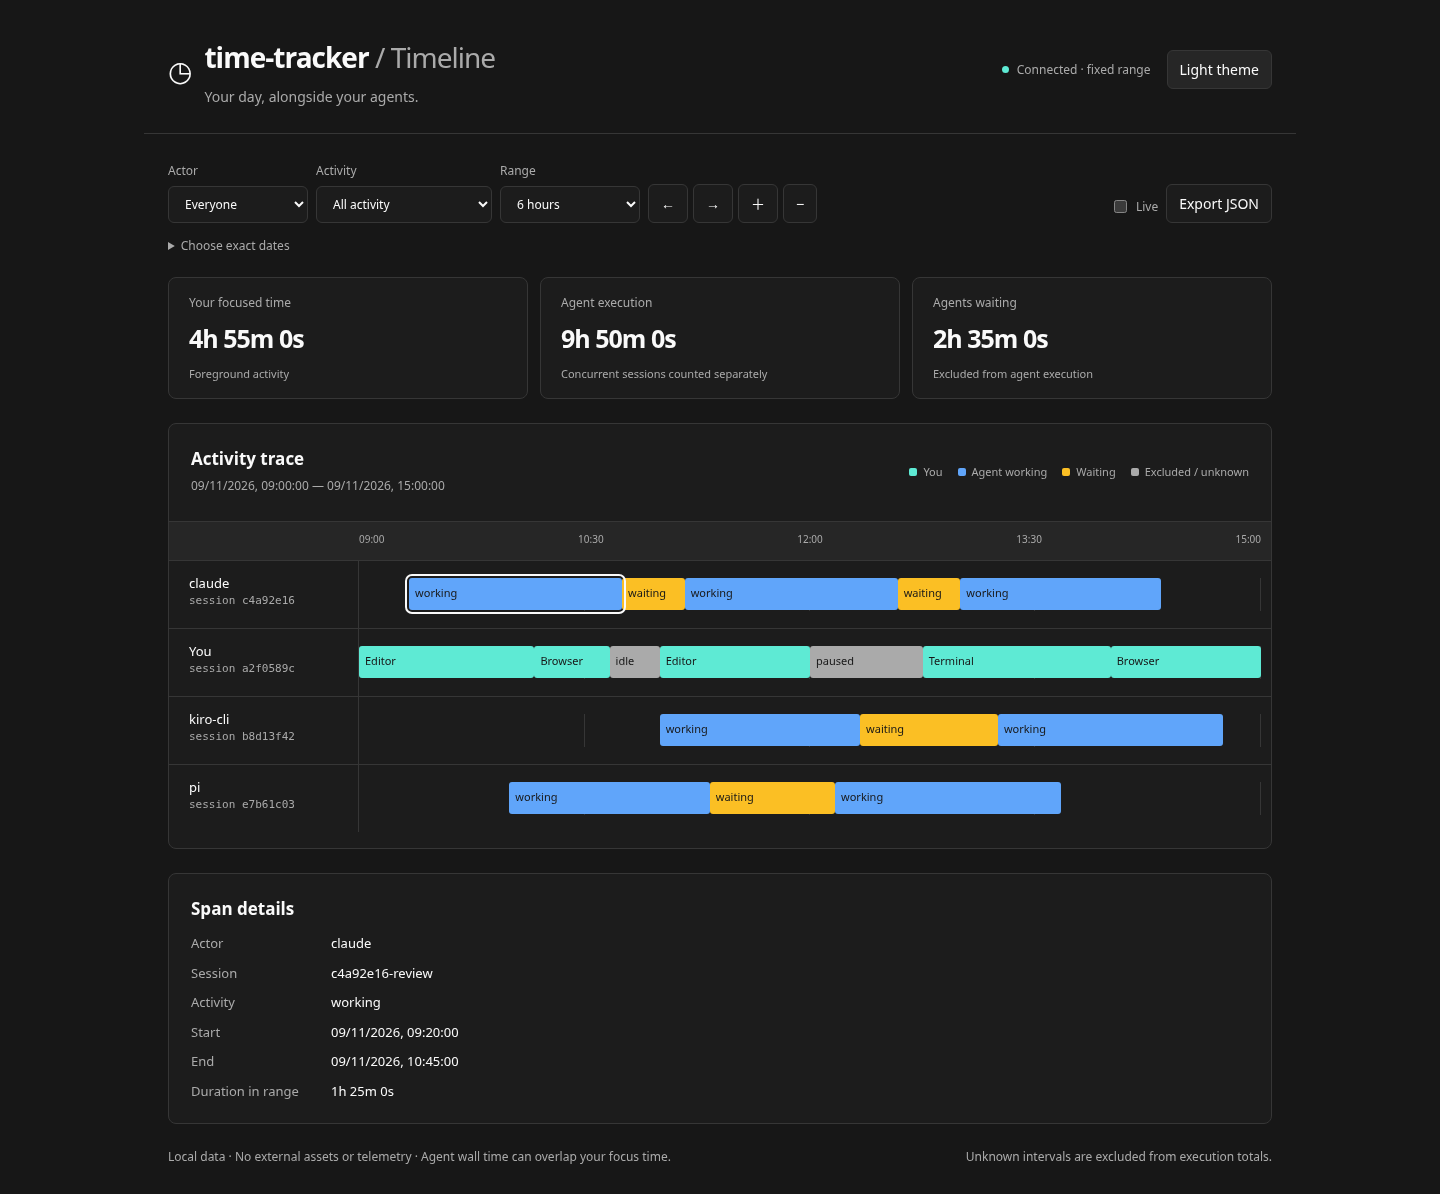
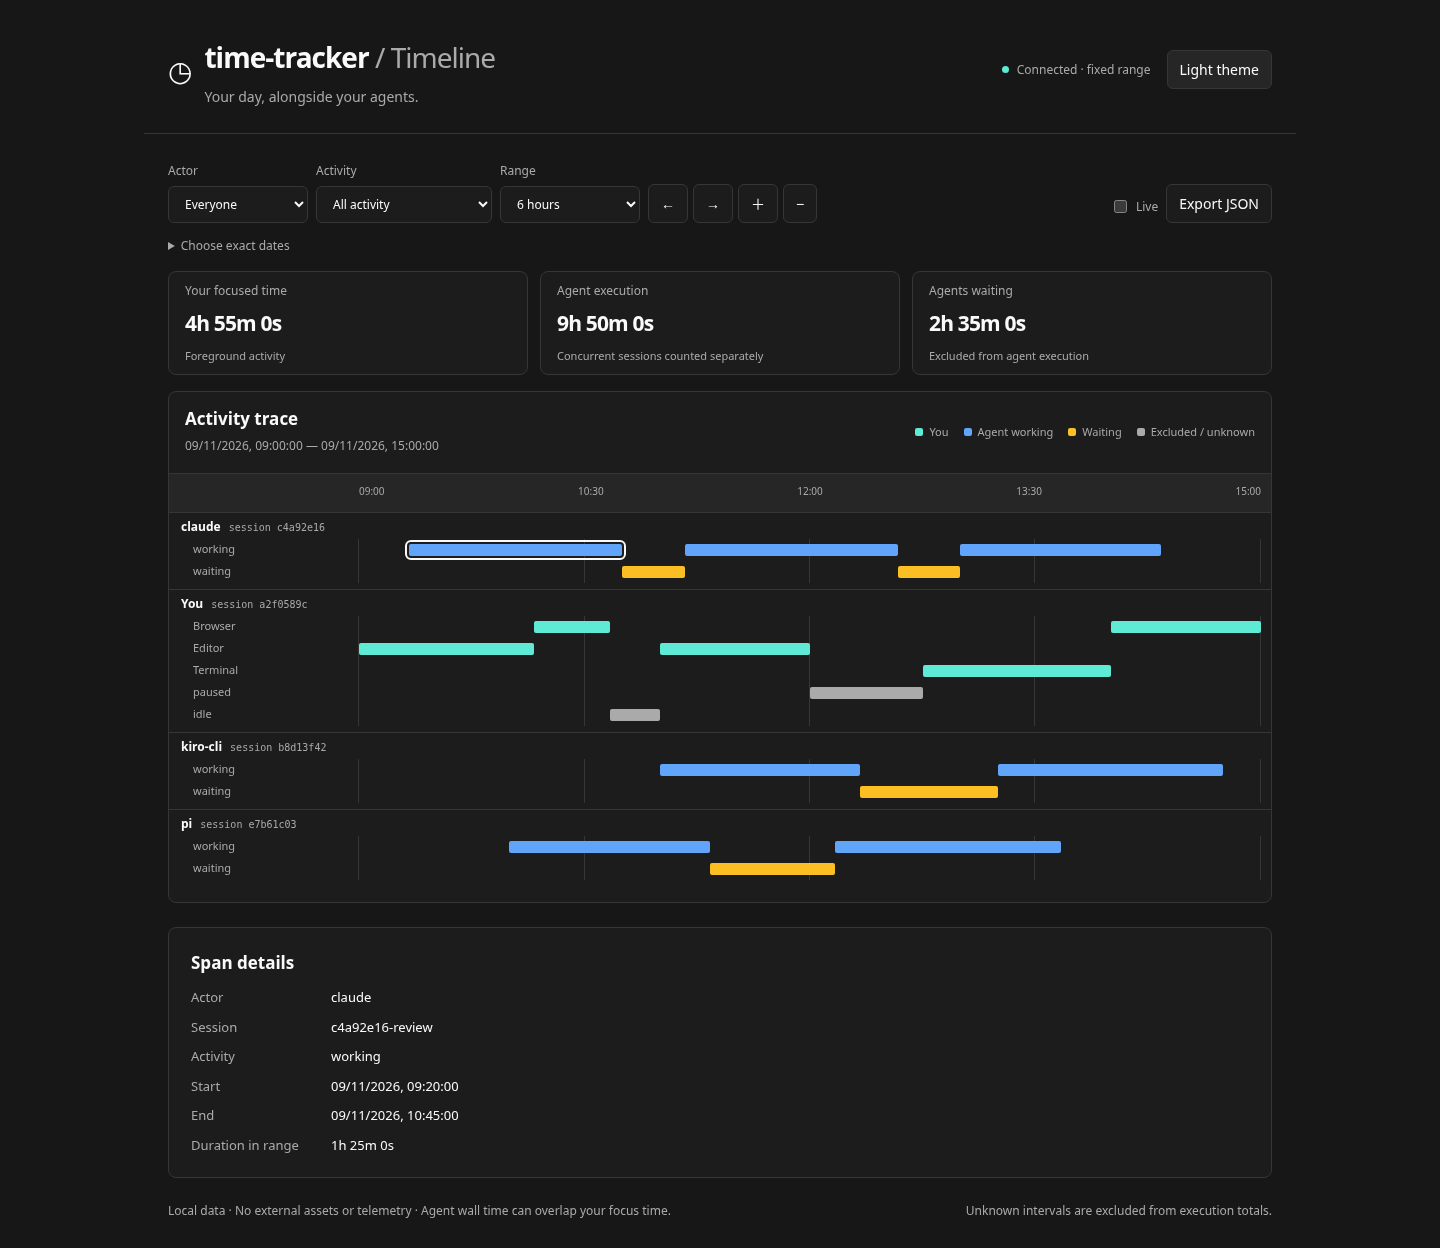
feat: split timeline into compact activity subtracks

diff --git a/poc/timeline-web/style.css b/poc/timeline-web/style.css
@@ -58,13 +58,13 @@ select { min-width: 140px; }
 .custom { margin: 14px 0; color: var(--muted); font-size: 12px; }
 .custom summary { cursor: pointer; }
 #dates { display: flex; gap: 12px; align-items: end; flex-wrap: wrap; padding-top: 12px; }
-.metrics { display: grid; grid-template-columns: repeat(3,1fr); gap: 12px; margin: 22px 0 24px; }
-.metrics article { border: 1px solid var(--line); border-radius: 8px; padding: 16px 20px; background: var(--panel); display: flex; flex-direction: column; }
+.metrics { display: grid; grid-template-columns: repeat(3,1fr); gap: 12px; margin: 16px 0; }
+.metrics article { border: 1px solid var(--line); border-radius: 8px; padding: 10px 16px; background: var(--panel); display: flex; flex-direction: column; }
 .metrics span { color: var(--muted); font-size: 12px; }
-.metrics strong { font-size: 25px; letter-spacing: -.04em; font-weight: 600; margin: 8px 0; font-variant-numeric: tabular-nums; }
+.metrics strong { font-size: 21px; letter-spacing: -.04em; font-weight: 600; margin: 8px 0; font-variant-numeric: tabular-nums; }
 small { color: var(--muted); font-size: 11px; }
 .panel { background: var(--panel); border: 1px solid var(--line); border-radius: 8px; margin-bottom: 24px; overflow: hidden; }
-.panel-heading { padding: 22px; display: flex; justify-content: space-between; gap: 20px; align-items: center; border-bottom: 1px solid var(--line); }
+.panel-heading { padding: 14px 16px; display: flex; justify-content: space-between; gap: 20px; align-items: center; border-bottom: 1px solid var(--line); }
 .panel-heading p { font-size: 12px; margin-top: 5px; }
 .legend { display: flex; flex-wrap: wrap; gap: 15px; font-size: 11px; color: var(--muted); }
 .legend span:before { content: ''; display: inline-block; width: 8px; height: 8px; background: var(--unknown); border-radius: 2px; margin-right: 6px; }
@@ -74,14 +74,16 @@ small { color: var(--muted); font-size: 11px; }
 #notice { font-size: 12px; color: var(--text); padding: 0 22px; }
 #notice:not(:empty) { padding: 12px 22px; border-left: 3px solid var(--accent); }
 #timeline { overflow-x: auto; padding-bottom: 16px; }
-.axis,.lane { display: grid; grid-template-columns: 190px minmax(500px,1fr); min-width: 720px; }
+.axis,.subtrack { display: grid; grid-template-columns: 190px minmax(500px,1fr); min-width: 720px; }
 .axis { height: 38px; color: var(--muted); background: var(--soft); font-size: 10px; }
 .ticks { display: flex; justify-content: space-between; padding-top: 10px; padding-right: 10px; }
-.lane { border-top: 1px solid var(--line); min-height: 68px; }
-.lane-label { padding: 13px 20px; display: flex; flex-direction: column; border-right: 1px solid var(--line); font-size: 13px; }
-.lane-label small { font-family: ui-monospace,monospace; }
-.track { position: relative; margin: 17px 10px 17px 0; min-height: 32px; background: repeating-linear-gradient(to right,transparent 0,transparent calc(25% - 1px),var(--line) calc(25% - 1px),var(--line) 25%); }
-.span { position: absolute; top: 0; height: 32px; min-width: 2px; border: 0; border-radius: 3px; padding: 0 6px; overflow: hidden; text-overflow: ellipsis; white-space: nowrap; text-align: left; font-size: 11px; color: var(--span-text); background: var(--unknown); }
+.lane { border-top: 1px solid var(--line); min-width: 720px; padding-bottom: 6px; }
+.lane-label { padding: 5px 12px 3px; display: flex; align-items: baseline; gap: 8px; font-size: 12px; font-weight: 600; }
+.subtrack { height: 22px; }
+.subtrack-label { position: sticky; left: 0; z-index: 3; padding: 2px 12px 2px 24px; border-right: 1px solid var(--line); color: var(--muted); background: var(--panel); font-size: 11px; overflow: hidden; text-overflow: ellipsis; white-space: nowrap; }
+.lane-label small { font-family: ui-monospace,monospace; font-size: 10px; font-weight: 400; }
+.track { position: relative; margin: 0 10px 0 0; min-height: 22px; background: repeating-linear-gradient(to right,transparent 0,transparent calc(25% - 1px),var(--line) calc(25% - 1px),var(--line) 25%); }
+.span { position: absolute; top: 5px; height: 12px; min-width: 2px; border: 0; border-radius: 2px; padding: 0; overflow: hidden; text-overflow: ellipsis; white-space: nowrap; text-align: left; font-size: 11px; color: var(--span-text); background: var(--unknown); }
 .span[data-status=working] { background: var(--working); }
 .span[data-status=tracking] { background: var(--human); }
 .span[data-status=waiting] { background: var(--waiting); }

diff --git a/poc/timeline-web/app.js b/poc/timeline-web/app.js
@@ -52,20 +52,37 @@ function render(data) {
     const first = spans[0], lane = element('div', undefined, 'lane')
     const label = element('div', undefined, 'lane-label')
     label.append(element('span', first.agent === 'human' ? 'You' : first.agent), element('small', `session ${first.session.slice(0, 8)}`))
-    const track = element('div', undefined, 'track')
+    const tracks = new Map()
     for (const span of spans) {
-      const name = span.app || span.status
-      const button = element('button', name, 'span')
-      button.style.left = `${100 * (span.start - data.from) / (data.to - data.from)}%`
-      button.style.width = `${100 * (span.end - span.start) / (data.to - data.from)}%`
-      button.dataset.status = span.status; button.dataset.id = span.id
-      button.setAttribute('aria-label', `${first.agent === 'human' ? 'You' : first.agent}: ${name}, ${formatDuration(span.end - span.start)}, ${formatDate(span.start)}`)
-      button.setAttribute('aria-pressed', String(span.id === state.selected))
-      button.title = `${name} · ${formatDuration(span.end - span.start)}`
-      button.onclick = () => inspect(span)
-      track.append(button)
+      const name = span.agent === 'human' && span.status === 'tracking' ? span.app : span.status
+      const key = JSON.stringify([span.status, name])
+      if (!tracks.has(key)) tracks.set(key, { name, status: span.status, spans: [] })
+      tracks.get(key).spans.push(span)
     }
-    lane.append(label, track); timeline.append(lane)
+    lane.append(label)
+    const order = ['tracking', 'working', 'waiting', 'paused', 'idle', 'locked', 'no focus', 'IPC unavailable', 'activity-unavailable', 'unknown']
+    const rows = [...tracks.values()].sort((a, b) => order.indexOf(a.status) - order.indexOf(b.status) || a.name.localeCompare(b.name))
+    for (const row of rows) {
+      const subtrack = element('div', undefined, 'subtrack')
+      const trackLabel = element('div', row.name, 'subtrack-label')
+      trackLabel.title = row.name
+      const track = element('div', undefined, 'track')
+      for (const span of row.spans) {
+        const name = span.app || span.status
+        const button = element('button', undefined, 'span')
+        button.style.left = `${100 * (span.start - data.from) / (data.to - data.from)}%`
+        button.style.width = `${100 * (span.end - span.start) / (data.to - data.from)}%`
+        button.dataset.status = span.status; button.dataset.id = span.id
+        button.setAttribute('aria-label', `${first.agent === 'human' ? 'You' : first.agent}: ${name}, ${formatDuration(span.end - span.start)}, ${formatDate(span.start)}`)
+        button.setAttribute('aria-pressed', String(span.id === state.selected))
+        button.title = `${name} · ${formatDuration(span.end - span.start)}`
+        button.onclick = () => inspect(span)
+        track.append(button)
+      }
+      subtrack.append(trackLabel, track)
+      lane.append(subtrack)
+    }
+    timeline.append(lane)
   }
   inspect(data.spans.find(s => s.id === state.selected) || null)
 }
